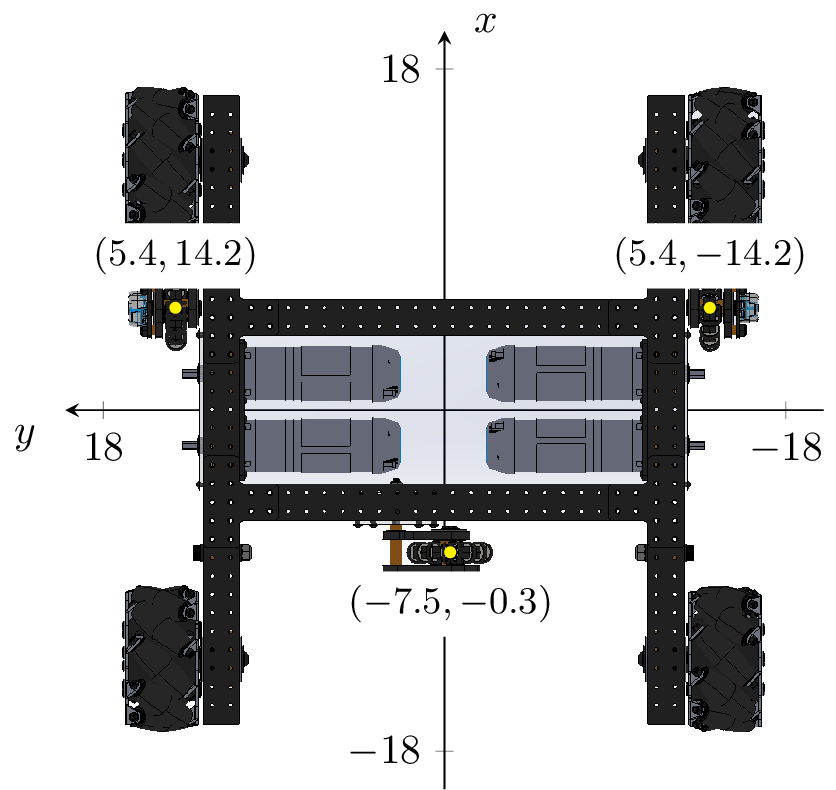
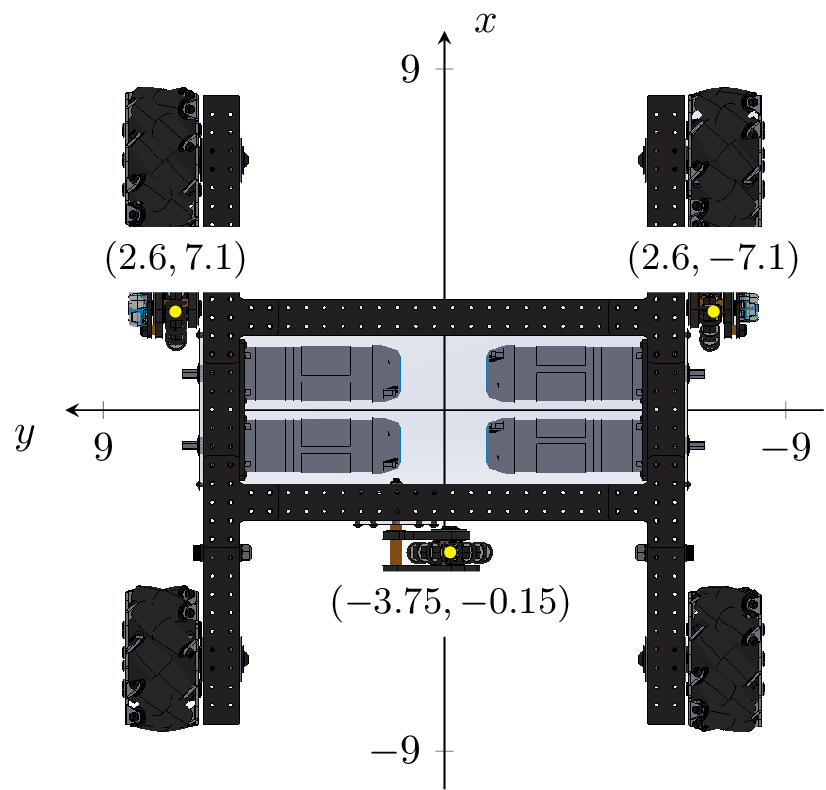
Fix kinematics dimension scaling

diff --git a/tour/kinematics.md b/tour/kinematics.md
@@ -30,9 +30,9 @@ Road Runner provides built-in localizers for tracking wheels. This configuration
 public class StandardTrackingWheelLocalizer extends ThreeTrackingWheelLocalizer {
     public StandardTrackingWheelLocalizer() {
         super(Arrays.asList(
-                new Pose2d(5.4, 14.2, 0.0), // left parallel
-                new Pose2d(5.2, -14.2, 0.0), // right parallel
-                new Pose2d(-7.5, -0.3, Math.toRadians(90)) // perpendicular
+                new Pose2d(2.6, 7.1, 0.0), // left parallel
+                new Pose2d(2.6, -7.1, 0.0), // right parallel
+                new Pose2d(-3.75, -0.15, Math.toRadians(90)) // perpendicular
         ));
     }
 
@@ -48,9 +48,9 @@ public class StandardTrackingWheelLocalizer extends ThreeTrackingWheelLocalizer 
 {% code-tabs-item title="Kotlin" %}
 ```kotlin
 class StandardTrackingWheelLocalizer : ThreeTrackingWheelLocalizer(listOf(
-    Pose2d(5.4, 14.2, 0.0), // left parallel
-    Pose2d(5.2, -14.2, 0.0), // right parallel
-    Pose2d(-7.5, -0.3, Math.toRadians(90.0)) // perpendicular
+    Pose2d(2.6, 7.1, 0.0), // left parallel
+    Pose2d(2.6, -7.1, 0.0), // right parallel
+    Pose2d(-3.75, -0.15, Math.toRadians(90.0)) // perpendicular
 )) {
     override fun getWheelPositions(): List<Double> {
         // return list of encoder readings in inches
